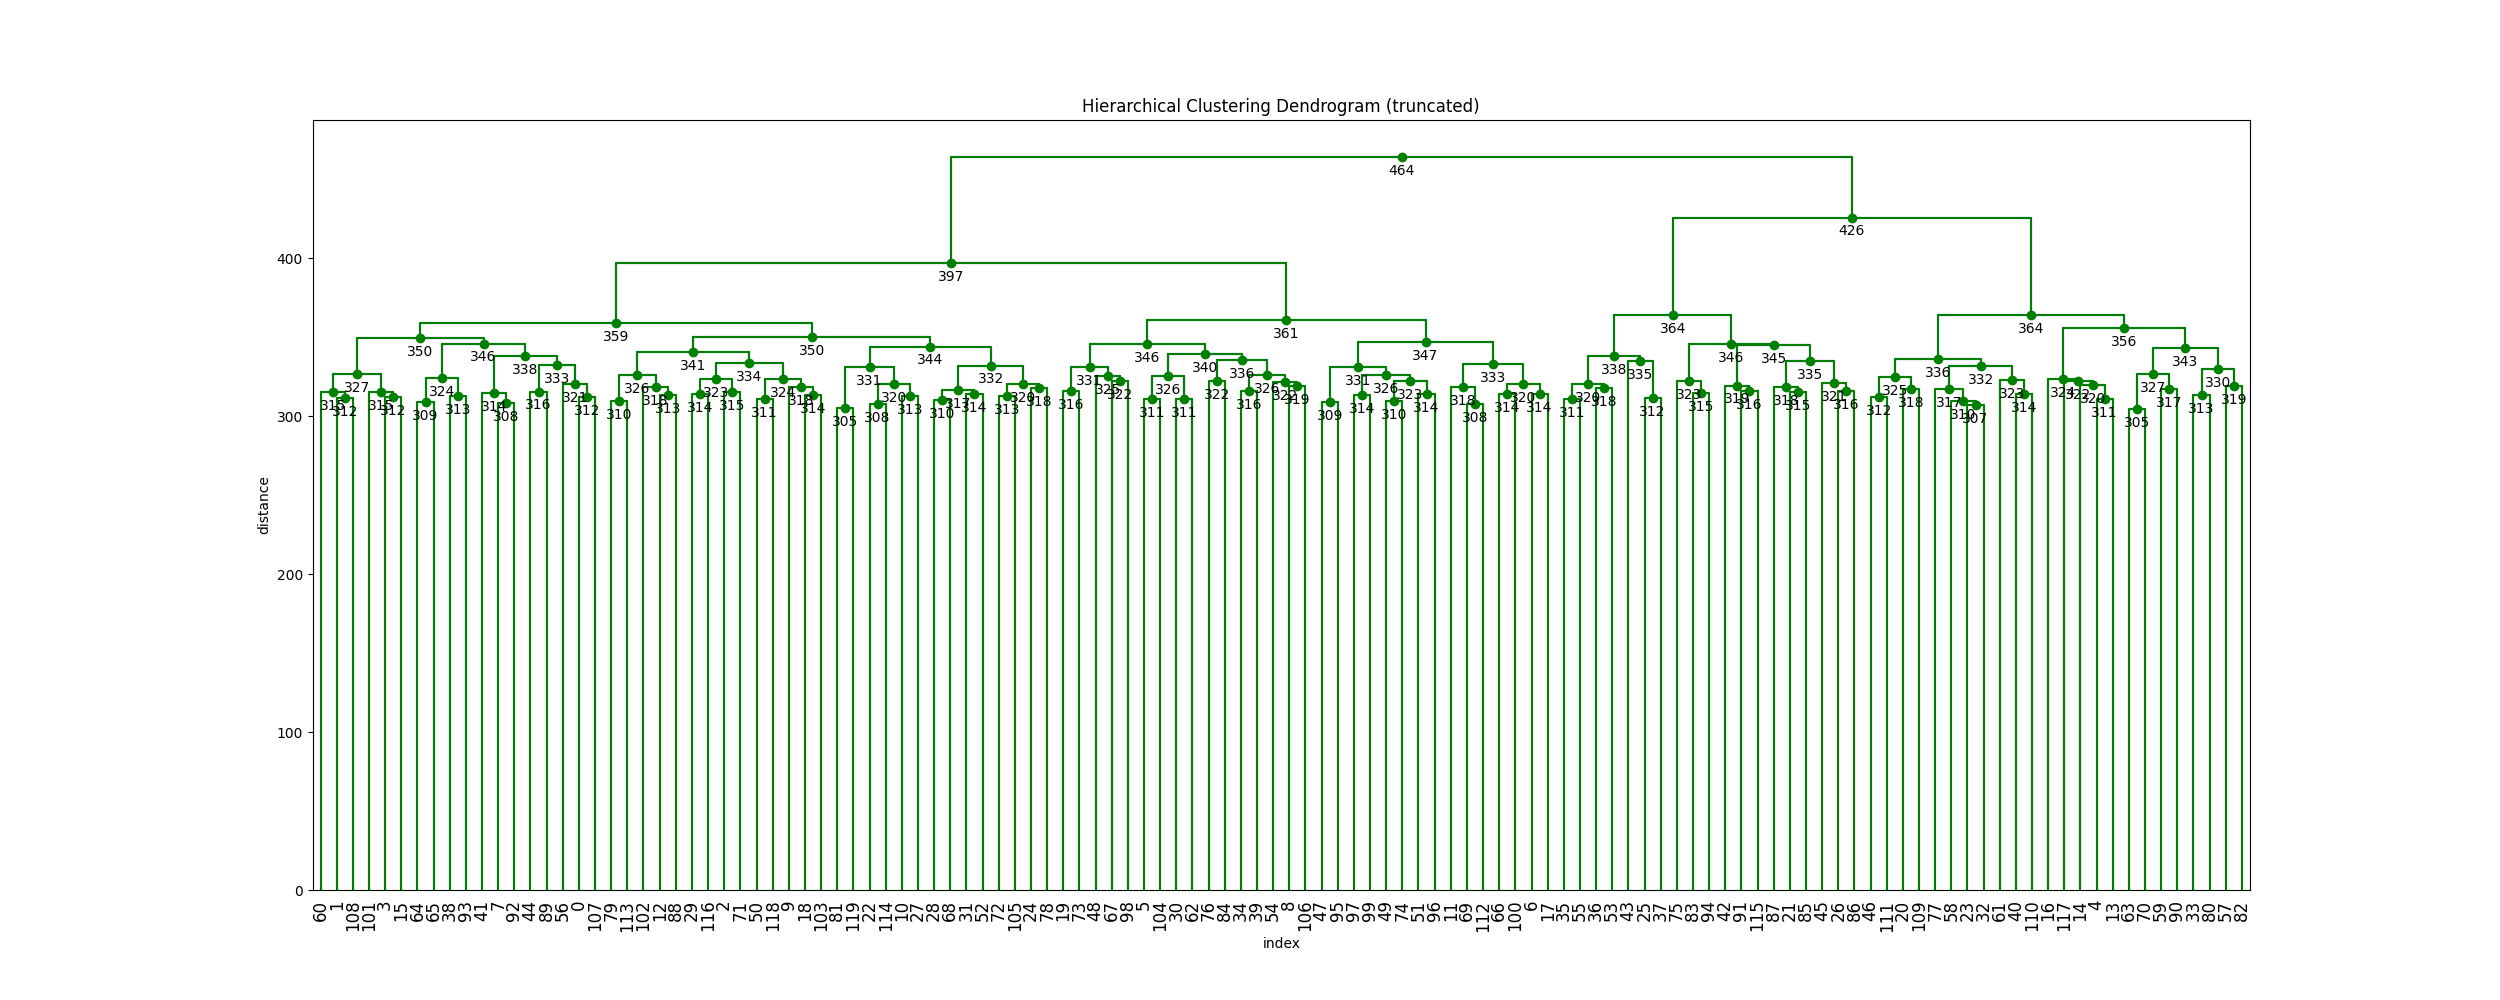
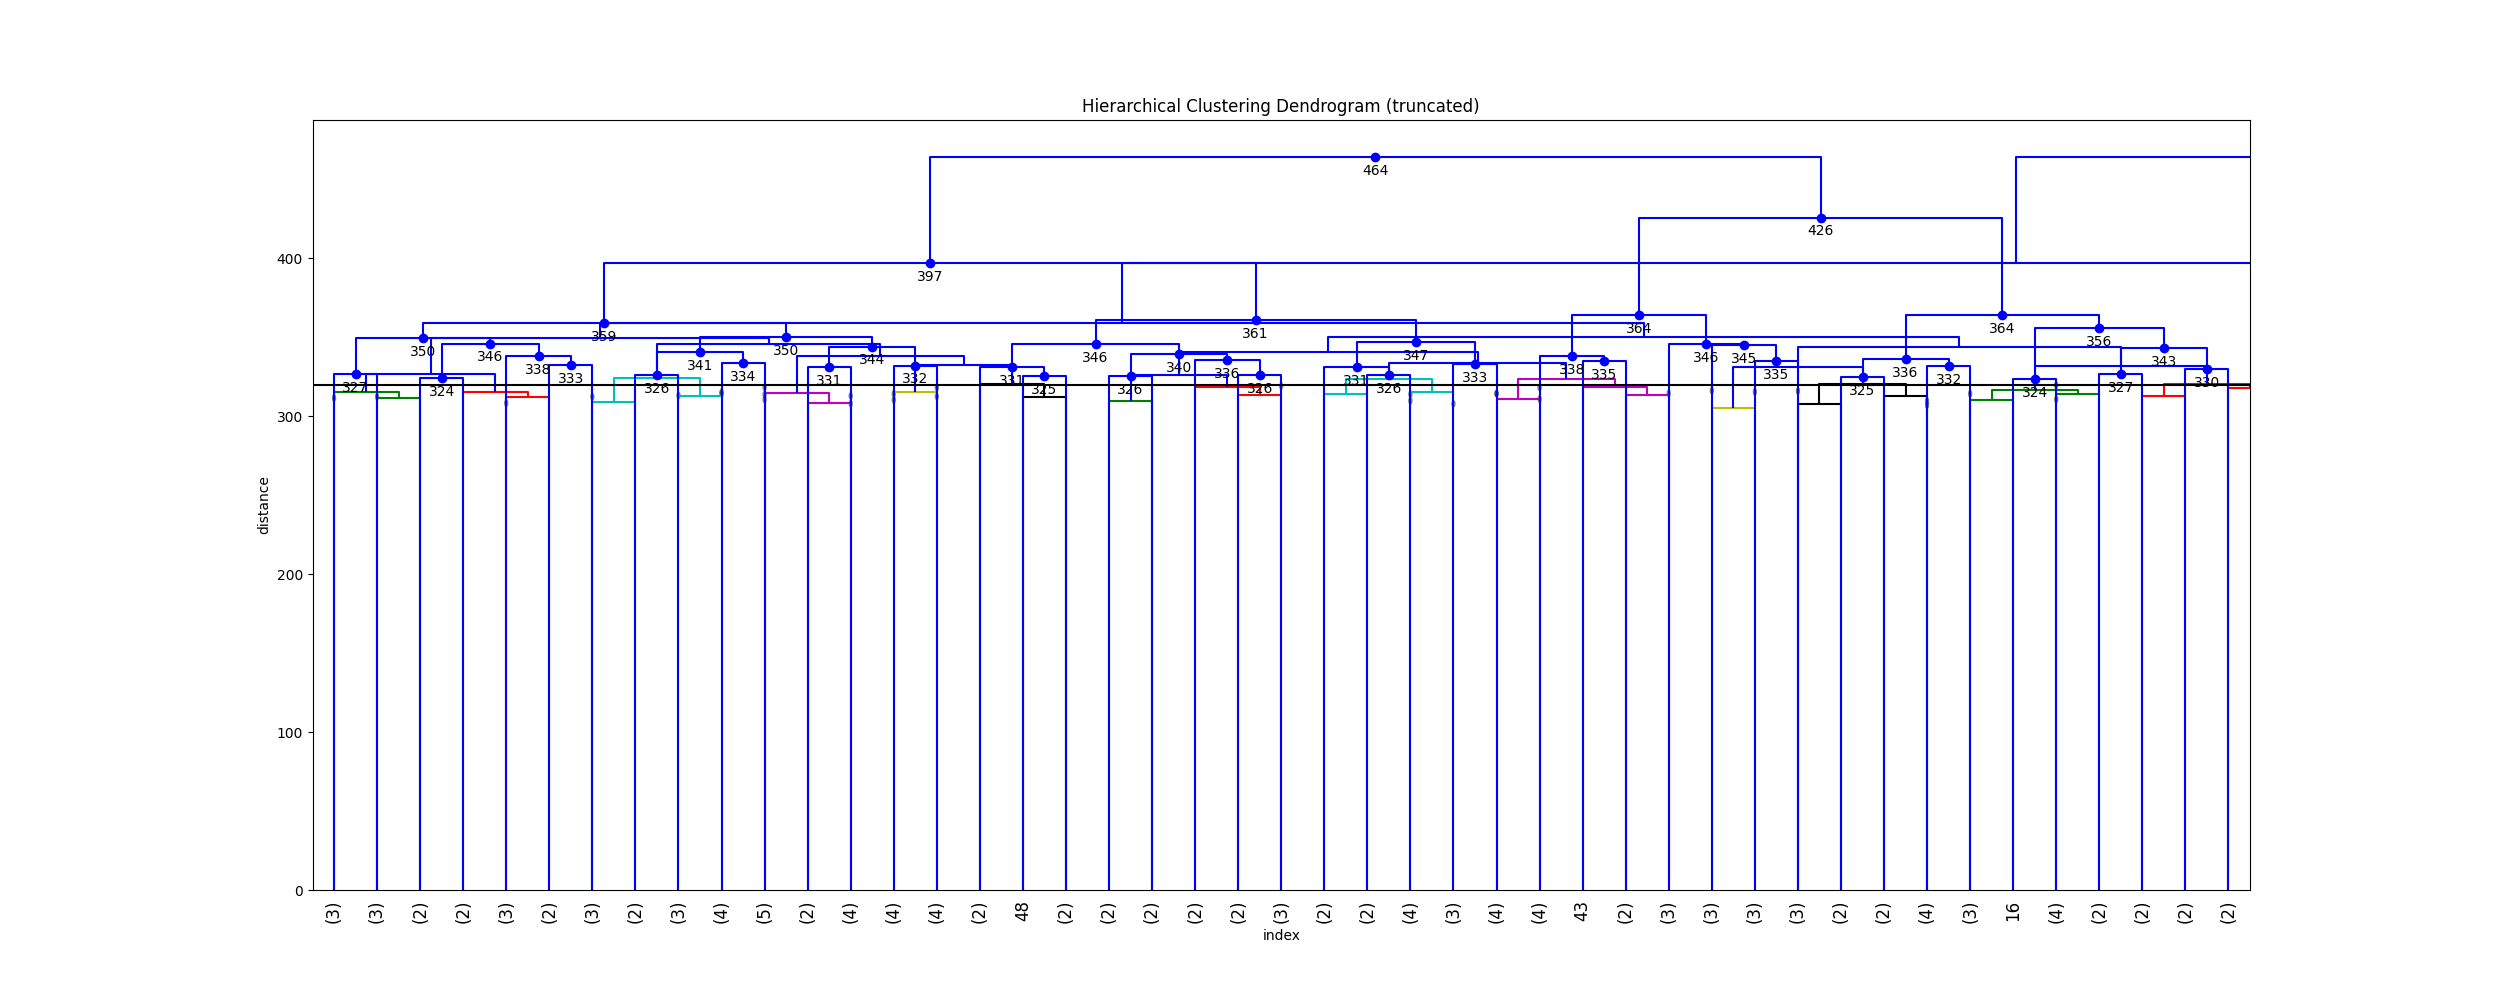
finished testing of feature matching:

diff --git a/orb_test/matchCluster.py b/orb_test/matchCluster.py
@@ -1,4 +1,3 @@
-
 import cv2
 import sys
 import scipy as sp
@@ -10,6 +9,9 @@ from os.path import isfile, join
 from matplotlib import pyplot as plt
 from scipy.cluster.hierarchy import dendrogram, linkage
 from scipy.cluster.hierarchy import fcluster
+import timeit
+
+start = timeit.default_timer()
 
 # Function To find the keypoints using SIFT and SURF
 def keypoints(image):
@@ -32,7 +34,7 @@ def keypoints(image):
 ##    cv2.imwrite('siftImage.jpg', img)
 ######################################################################################################
 
-    # SUFR Detector: somehow SURF not working
+    # SUFR Detector: need to configure SURF from opencv_contrib
     # surf = cv2.SURF(4000)
     # kp2, d2 = surf.detectAndCompute(gray,None,useProvidedKeypoints = False)
 
@@ -160,7 +162,7 @@ def allMatching(directory):
 
   #  cv2.normalize(np.array(symDistMat), np.array(symDistMat), 0, 255, cv2.cv.CV_MINMAX)
     cv2.imwrite('matrix.jpg', np.array(symDistMat))
-    print(np.array(symDistMat))
+    # print(np.array(symDistMat))
     return np.array(symDistMat)
 
 # This function gives a Dendrogram with a horizontal line at the specified value (max_d)
@@ -175,7 +177,7 @@ def fancy_dendrogram(*args, **kwargs):
 
     if not kwargs.get('no_plot', False):
         plt.title('Hierarchical Clustering Dendrogram (truncated)')
-        plt.xlabel('index')
+        plt.xlabel('index or (cluster size)')
         plt.ylabel('distance')
         for i, d, c in zip(ddata['icoord'], ddata['dcoord'], ddata['color_list']):
             x = 0.5 * sum(i[1:3])
@@ -205,13 +207,13 @@ def hClustering(dmatrix):
     plt.savefig('dendrogram.png')
 
     # Setting the cutOff value, this is the distance value on the y-axis
-    cutOff = 500
+    cutOff = 45
 
     # Plot the truncated Dendrogram indicating the number of clusters formed below the specified value (max_d)
     # with x-axis having the index and y-axis having the distance
     fancy_dendrogram(Z,
-    truncate_mode='lastp',
-    p=1000,
+    truncate_mode='lastp',  # show only the last p merged clusters
+    p=45, # show only the last p merged clusters
     leaf_rotation=90.,
     leaf_font_size=12.,
     show_contracted=True,
@@ -224,13 +226,16 @@ def hClustering(dmatrix):
     print("The Clusters are:")
     print(clusters)
 
-##    # After getting the clusters, plot them using scatter plots
-##    plt.figure(figsize=(10, 8))
-##    plt.scatter(dmatrix[:,0], dmatrix[:,1], c=clusters, cmap='prism')  # plot points with cluster dependent colors
-##    plt.savefig('scatterPlot.png')
+    # After getting the clusters, plot them using scatter plots
+    plt.figure(figsize=(10, 8))
+    plt.scatter(dmatrix[:,0], dmatrix[:,1], c=clusters, cmap='prism')  # plot points with cluster dependent colors
+    plt.savefig('scatterPlot.png')
 
 
 #keypoints('ST2MainHall4050.jpg')
 #matching('ST2MainHall4049.jpg', 'ST2MainHall4050.jpg')
 distMatrix = allMatching('images')
 hClustering(distMatrix)
+
+stop = timeit.default_timer()
+print('Time: ', stop - start)
